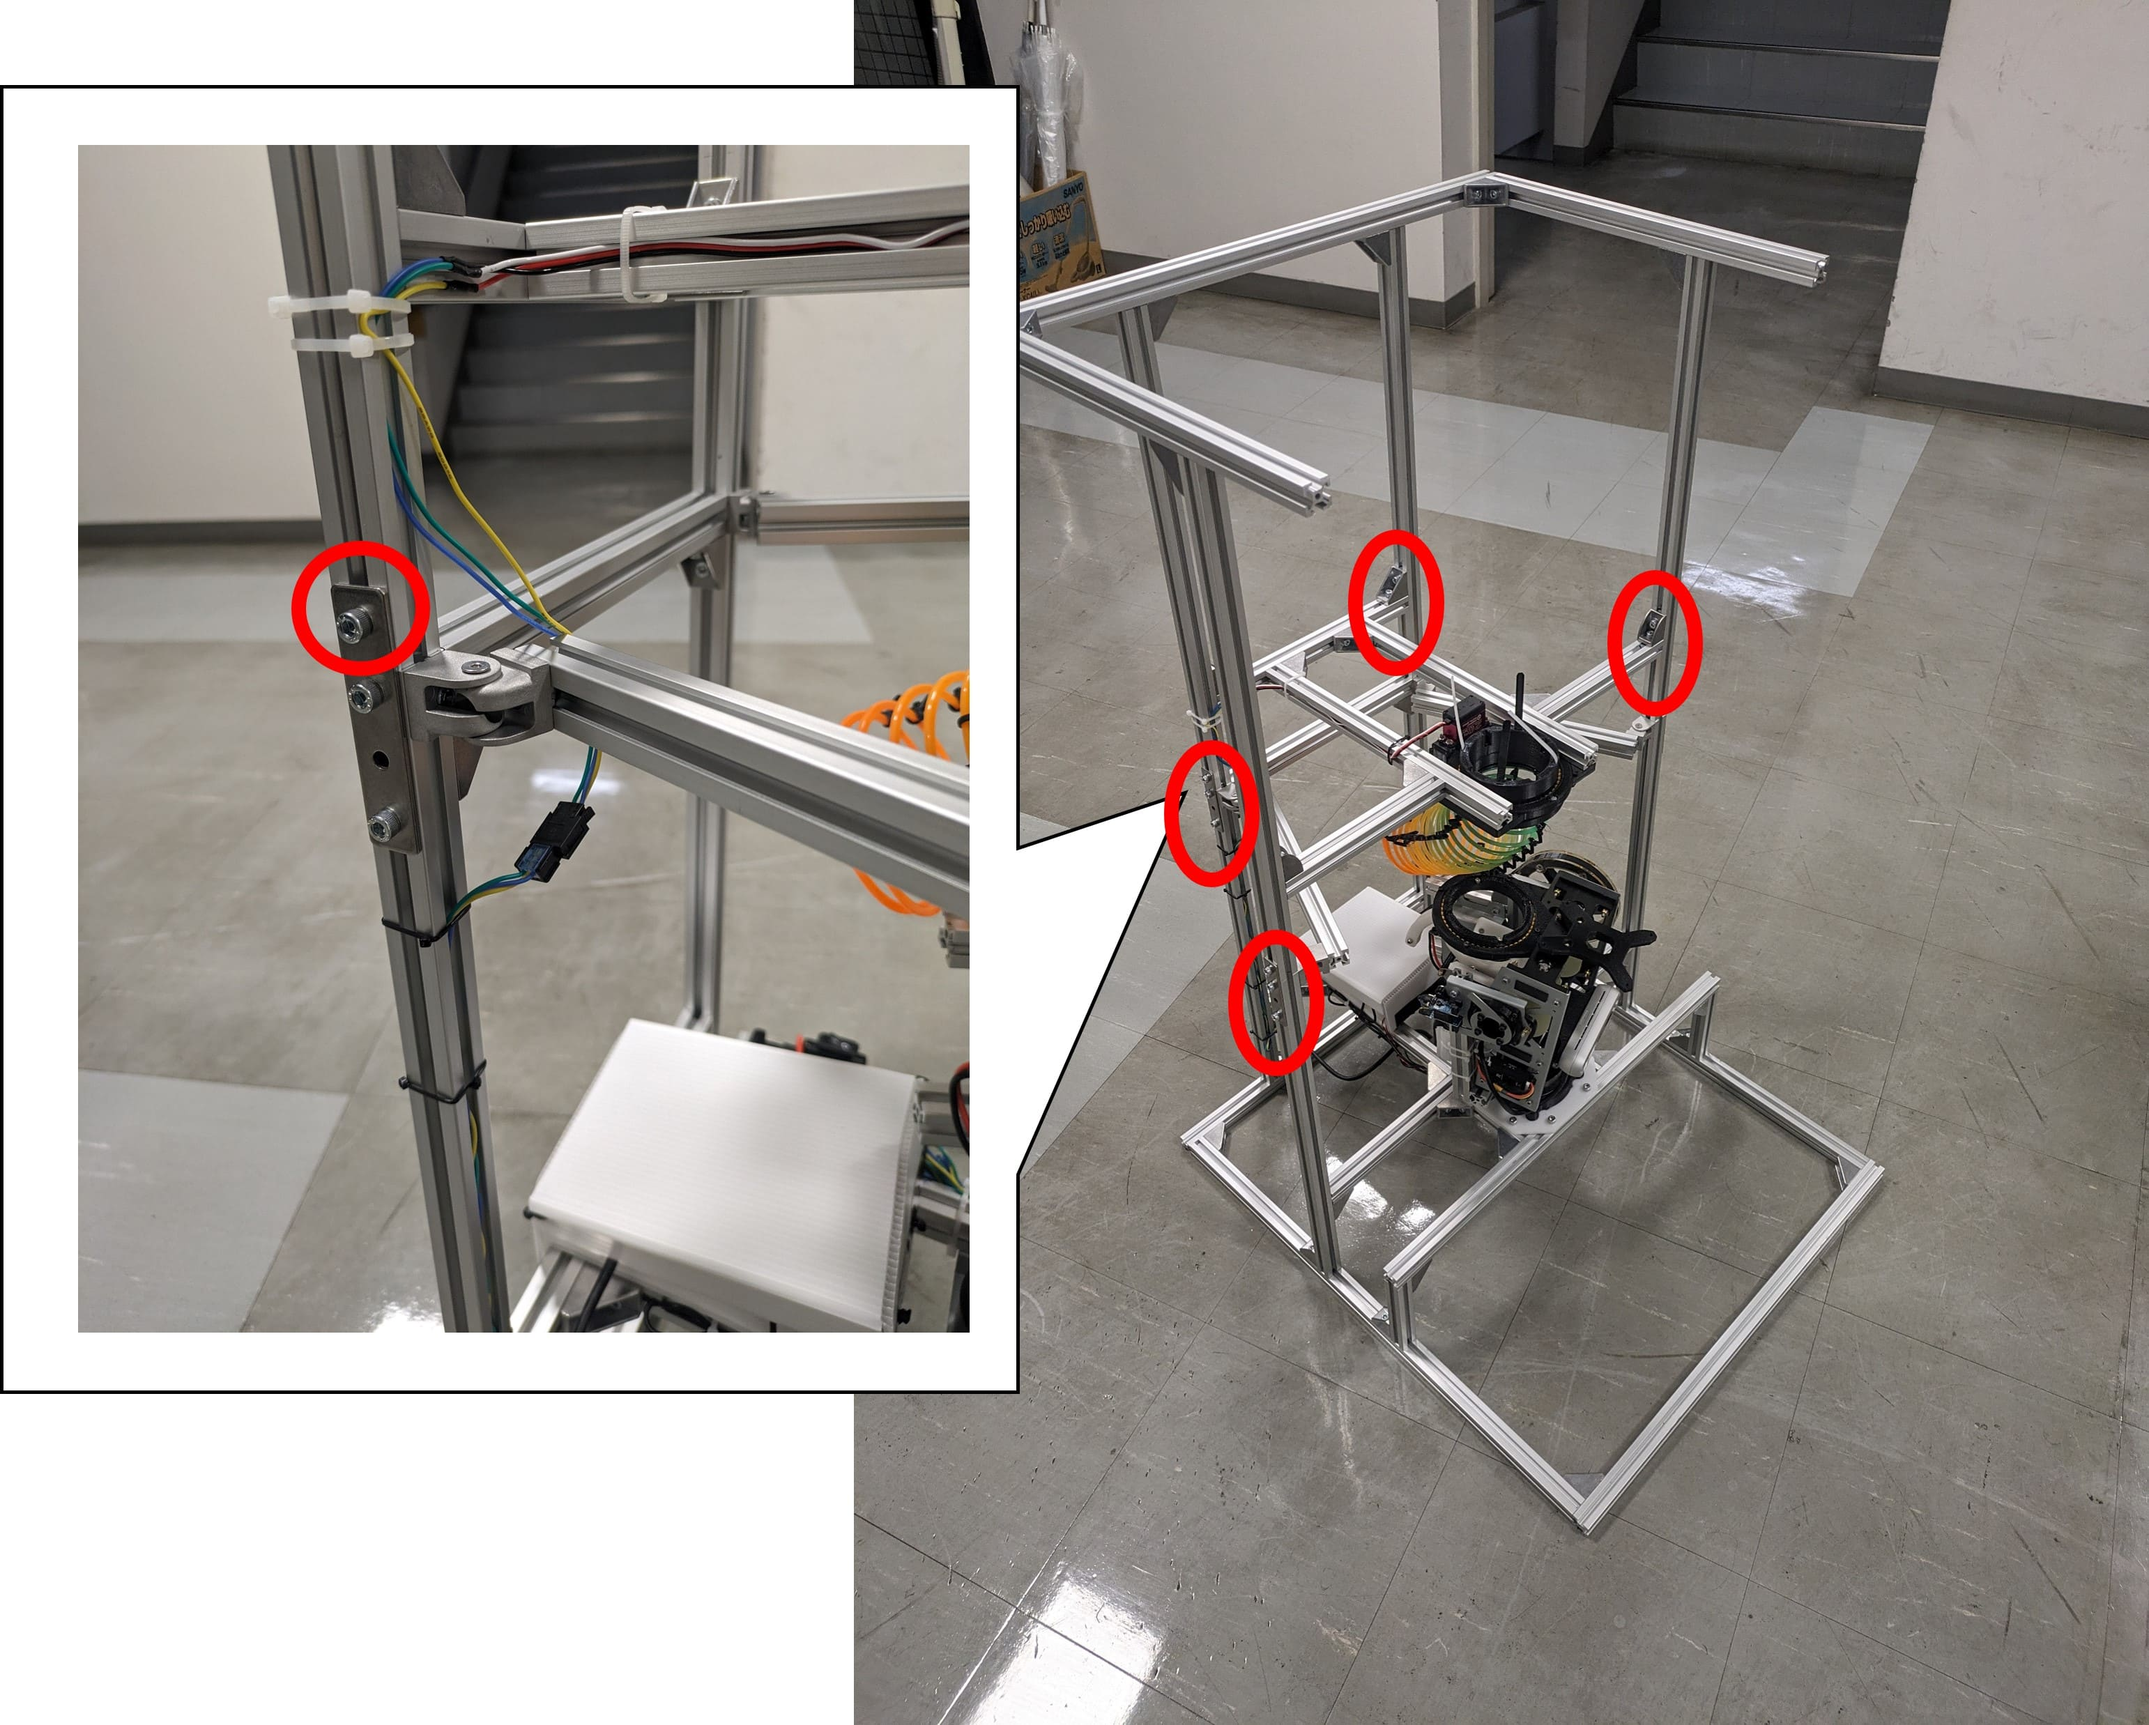
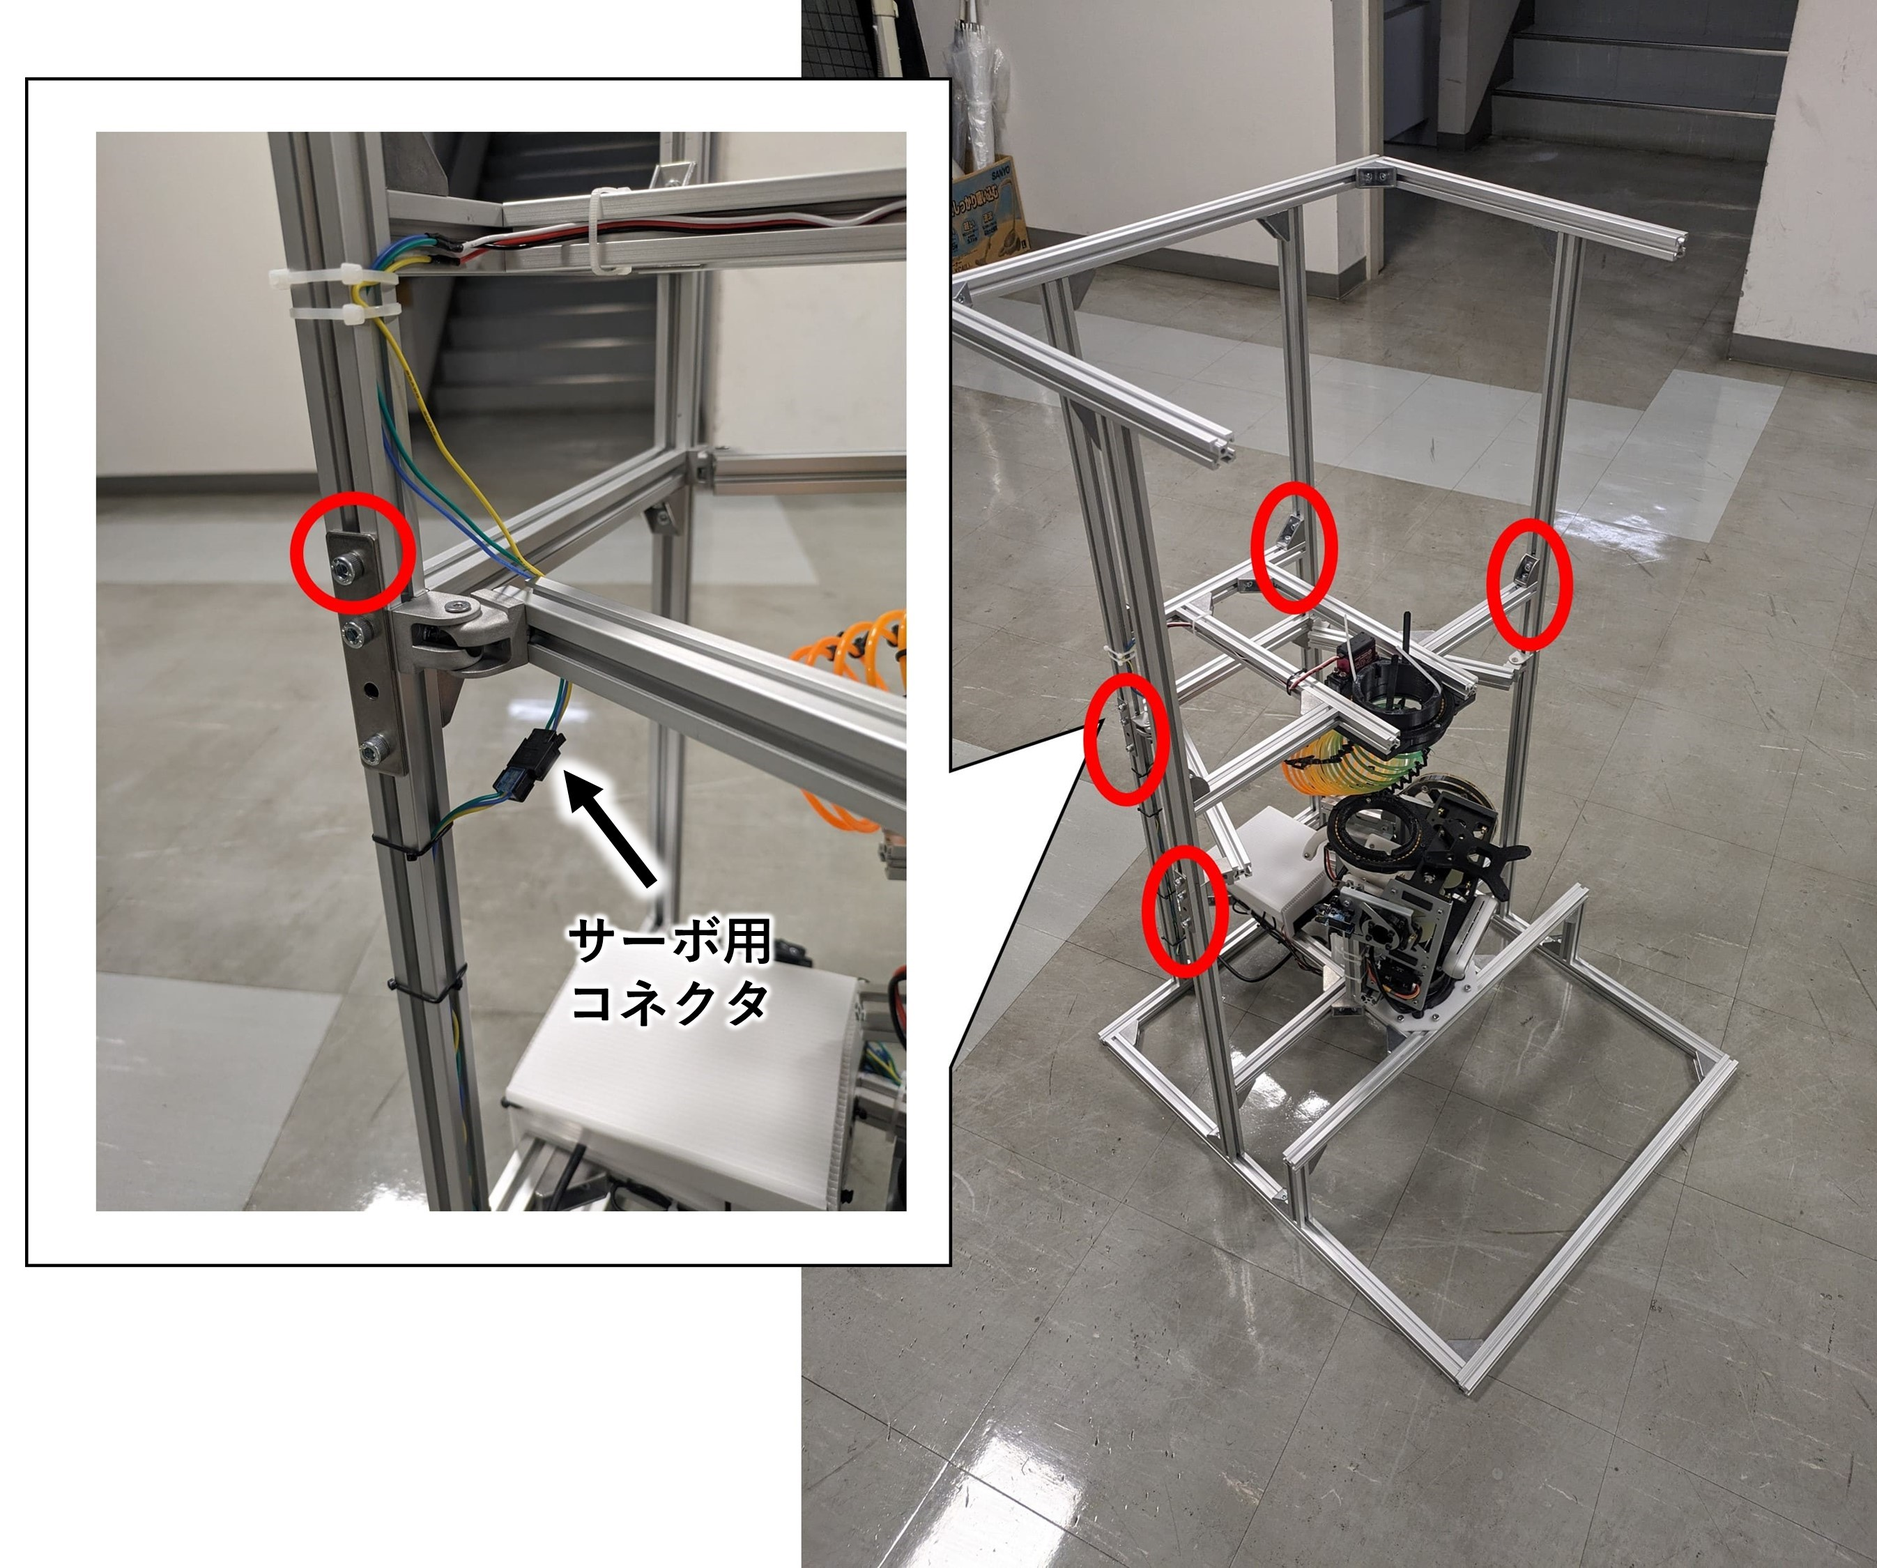
最新ハードに合わせて内容を修正

diff --git a/README.md b/README.md
@@ -1,5 +1,5 @@
-# CoRE AutoRobot 2024 general
-CoRE-1 2024　自動ロボットに関する情報をまとめています．
+# CoRE Auto turret general
+CoRE-1　オートタレットに関する情報をまとめています．
 - [Raspberry Piのファームウェア](https://github.com/scramble-robot/CoRE_AutoRobot_2024_raspberrypi)
 - [サンプルプログラム](https://github.com/scramble-robot/CoRE_AutoRobot_2024_sample)
 - [CADデータ](https://a360.co/3MP85G7)
@@ -15,6 +15,7 @@ CoRE-1 2024　自動ロボットに関する情報をまとめています．
     - W550 *D650 *H500
 
 <img src="fig/f7.jpg" width="300">
+
 <img src="fig/f8.jpg" width="300">
 
 ## 使用カメラ
@@ -22,6 +23,9 @@ CoRE-1 2024　自動ロボットに関する情報をまとめています．
 - ロボット視点イメージ
 
     [![image](https://img.youtube.com/vi/nvyRWckMJ-0/0.jpg)](https://www.youtube.com/watch?v=nvyRWckMJ-0)
+
+## 使用Lidar
+- [UST-30LX](https://www.hokuyo-aut.co.jp/search/single.php?serial=195)
 
 ## Pitch軸
 - 可動域
@@ -48,56 +52,84 @@ CoRE-1 2024　自動ロボットに関する情報をまとめています．
 - [PWMサーボ](https://amzn.asia/d/aWBfjvF)
 
 # 配布物一覧
-## 自動ロボット一式
+## オートタレット一式
 | 品名 | 数量 |
 | -------- | -------- |
-| 自動機　| 1台 | 
+| オートタレット　| 1台 | 
 | Raspberry Pi用ACアダプタ　| 1本 | 
-| USB3.0 リピーター付き延長ケーブル 5m　| 1本 | 
-| USB3.0 延長ケーブル用ACアダプタ　| 1本 | 
-| LANケーブル（クロス）　| 1本 | 
-| バッテリー　TB48　| 2個 | 
-| TB48用充電器　| 1個 | 
-| Realsense外箱　|　1個 | 
-| SDカードリーダー　| 1枚 | 
+| USB3.0 延長ケーブル　| 1本 | 
+| PC-ロボット間通信用LANケーブル　| 1本 | 
+| スイッチングハブ用電源アダプタ　| 1本 | 
+| Greenworks 24V 電動工具用バッテリー　| 1個 | 
+| バッテリー充電器　| 1個 | 
 | MicroSDカード　| 1枚 | 
 | 結束バンド　| 1袋 | 
-| ダメージパネル　| 1枚 | 
-| ダメージパネル用USB MicroBケーブル　| 1本 | 
 | 六角レンチ4mm　| 1本 | 
-| 六角レンチ3mm　| 1本 | 
-| ボール　| 48個 |
+| 撹拌機構　| 1個 | 
+| 弾倉接続用パーツ　| 1個 | 
+| 弾倉　| 1個 | 
+| 撹拌機構取り付け用ネジ（M5*15）　| 8個 | 
+| オートレフェリーユニット取り付け用ネジ（M5*10）　| 2個 | 
+| ボール　| 50個（個数は変動する場合がございます） |
+| ダメージパネル　(オートタレット単体チームのみ)　| 1枚 | 
+| ダメージパネル用USB MicroBケーブル　(オートタレット単体チームのみ)　| 1本 | 
 
 ## PC一式
-| 用語 | 定義 |
+| 品名 | 数量 |
 | -------- | -------- |
-| デスクトップPC　| 1台
+| デスクトップPC　| 1台 | 
 | PC用電源ケーブル　| 1本| 
 
+## オートレフェリーユニット（発送は遅れる場合があります）
+| 品名 | 数量 |
+| -------- | -------- |
+| オートレフェリーユニット　| 1台 | 
+
 # セットアップ手順
-1. 下図の4個所のリピートタイを外す．このとき外したリピートタイは後で使用する．
+1. 下図の2個所のリピートタイを外し，上部フレームと下部フレームを分離させる．このとき外したリピートタイは後で使用する．
+
+    **⚠上部フレームがLidarにぶつかって破損しないように慎重に取り外すこと⚠** 
 
     <img src="fig/f1.jpg" width="500">
+
+1. 下図の6箇所のリピートタイを緩め，弾倉接続用パーツを取り外す．リピートタイは弾倉接続用に取り付けたままにする．
+
+    <img src="fig/f10.jpg" width="300">
 
 1. 下図に示す4個所のアルミフレーム用ナットを緩める．
 
     <img src="fig/f2.jpg" width="500">
 
-1. 上部フレームと下部フレームを結合し，下図の4個所を六角レンチで締める．
+1. 上部フレームと下部フレームを結合し，下図の4個所を六角レンチで締める．同時にサーボ用のコネクタを接続する．
 
     <img src="fig/f3.jpg" width="500">
 
-1. 結束バンドを下図に示す4個所に巻き付けスプリングと砲塔を固定する．弾詰まりの原因となるため結束バンドの頭は必ずスプリングの外側に向けること．
+1. 撹拌機構および弾倉接続用パーツを下図の8箇所でネジ止めする．同時にサーボ用のコネクタを接続する．
+
+    <img src="fig/f11.jpg" width="300">
+
+1. 結束バンドを下図に示す4個所に巻き付け撹拌機構のスプリングと砲塔を固定する．弾詰まりの原因となるため結束バンドの頭は必ずスプリングの外側に向けること．
 
     <img src="fig/f4.jpg" width="500">
 
-1. プラダン製の弾倉を組み立て，1. で外したリピートタイを用いて下図に示す6箇所で固定する．
+1. プラダン製の弾倉を組み立て，1. で外したリピートタイを用いて下図に示す14箇所で固定する．
 
     <img src="fig/f5.jpg" width="500">
+
+1. 下図2点でネジ止めしオートレフェリーユニットを取り付ける
+
+    <img src="fig/f12.jpg" width="500">
 
 1. [CoRE_AutoRobot_2024_raspberrypi](https://github.com/scramble-robot/CoRE_AutoRobot_2024_raspberrypi)に従ってRaspberry piをセットアップする．
 
 1. [CoRE_AutoRobot_2024_sample](https://github.com/scramble-robot/CoRE_AutoRobot_2024_sample)に従って動作確認を行う．
+
+# 発送時梱包手順
+1. ジンバル，スイッチングハブ，回路，Lidar，バッテリーを緩衝材で梱包する．
+
+1. 組み立て手順を逆順で行う．
+
+    **⚠分解の際にサーボのコネクタを外し忘れないように注意すること⚠**
 
 # タイミングベルトのテンション調整
 下図に示す4個所のM5ボルトを緩め，モータが取り付けられている板金を引っ張ってテンションを調整する．
@@ -105,7 +137,7 @@ CoRE-1 2024　自動ロボットに関する情報をまとめています．
 <img src="fig/f6.jpg" width="500">
 
 
-# ダメージパネルの発光色設定
+# ダメージパネルの発光色設定(オートタレット単体で参加申込したチームのみ)
 [damagePanelDemo.ino](https://github.com/scramble-robot/CoRE_AutoRobot_2024_general/tree/main/damagePanelDemo)の8-11行目にある任意のLEDColorのコメントアウトを解除し，ダメージパネルに取り付けられたArduinoMicroに書き込む
 ```
 /*------Set LED color------*/
